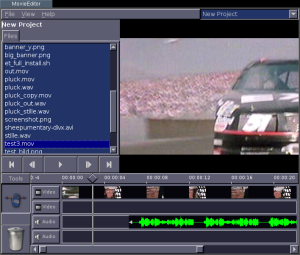
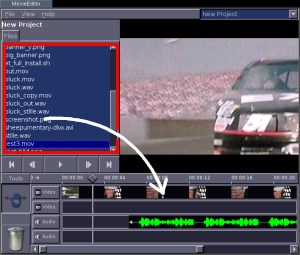
doc updates
darcs-hash:20051222224922-7aa3a-1a10f4ea75fe09c41f06d346ee78ad8f9d84c11b

Changed region(s): [[0.0, 0.1647, 0.57, 0.7686]]

diff --git a/doc/tutorial.html b/doc/tutorial.html
@@ -27,14 +27,46 @@ it wherever you like. The same thing works for audio files too.</p>
 
 <h2>Removing clips from the timeline</h2>
 
+<img src="images/openme_2.png" width="300" height="255" alt="Screenshot" />
+
 <p>To remove a clip, simply drag it onto the trash can on the bottom left of the
 application window.</p>
 
 <h2>Trimming clips</h2>
 
+<img src="images/openme_3.png" width="300" height="255" alt="Screenshot" />
+
+<p>
+Trimming means removing parts of a clip that are at the the begining or and of a
+video file. This can be easily done using the small arrows that are on the edges
+of the clip. Grab one with the mouse and drag them to the preferred position. To
+control what picture will be the cut the video view will display the video-frame
+at that position.
+</p>
+
 <h2>Managing Projects</h2>
 
+<img src="images/openme_4.png" width="300" height="255" alt="Screenshot" />
+
+<p>
+The Open Movie Editor uses a simple &quot;project management&quot; facility. To
+name a project you just need to type in the name in the textbook on the left. A
+new project can be started with the appropriate command in the &quot;Project&quot; menu.
+All your project will be added to the project list on right of the menu bar.
+Just select the one you want to work on, and it's loaded. In case you want to
+duplicate a project, go to &quot;Save as...&quot; in the &quot;Project&quot; menu, you will then be
+asked to enter a new name for the copy.
+</p>
+
 <h2>Exporting to video files</h2>
+
+<p>
+Creating a new video file from the arrangement is called &quot;Rendering&quot;, it's also
+available in the &quot;Project&quot; menu. You have to select a filename, video
+and audio codecs, and there you go. The choices are limited at the moment, and
+there will propably some simpler presets in the future.
+
+</p>
 
 </body>
 </html>

diff --git a/src/nle.h b/src/nle.h
@@ -176,11 +176,13 @@ public:
   nle::CodecParameters* m_codecParams;
   ~CodecOptions();
 };
+#include "config.h"
 
 class AboutDialog {
 public:
   AboutDialog();
   Fl_Double_Window *aboutDialog;
+  Fl_Box *version_box;
 private:
   inline void cb_Close_i(Fl_Return_Button*, void*);
   static void cb_Close(Fl_Return_Button*, void*);
